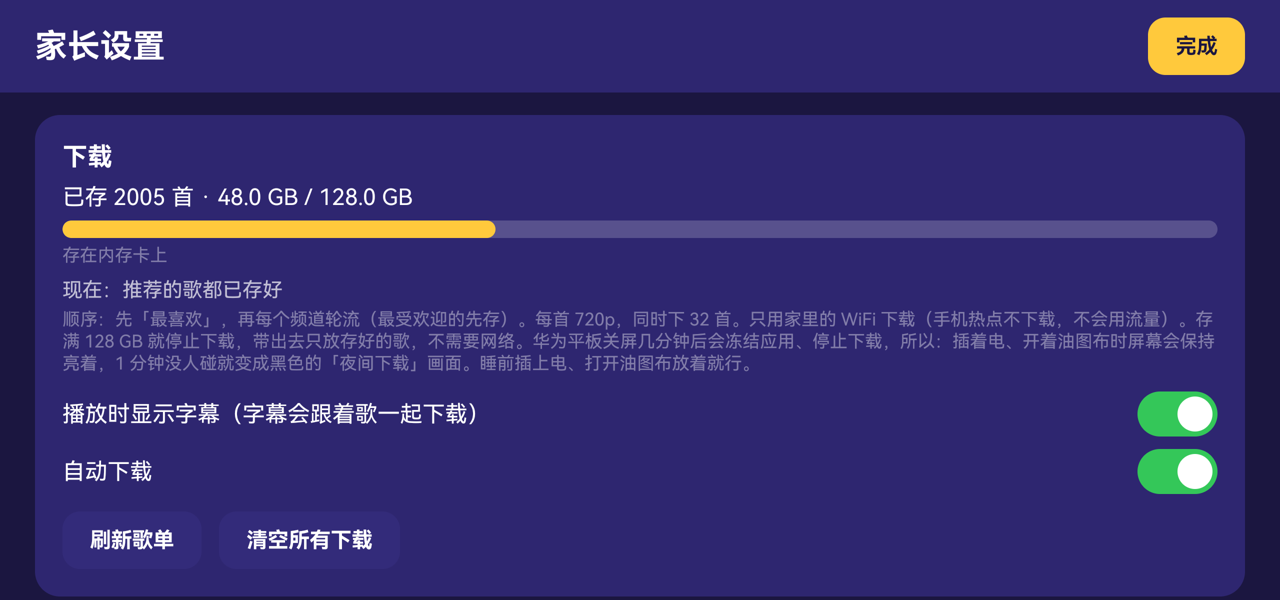
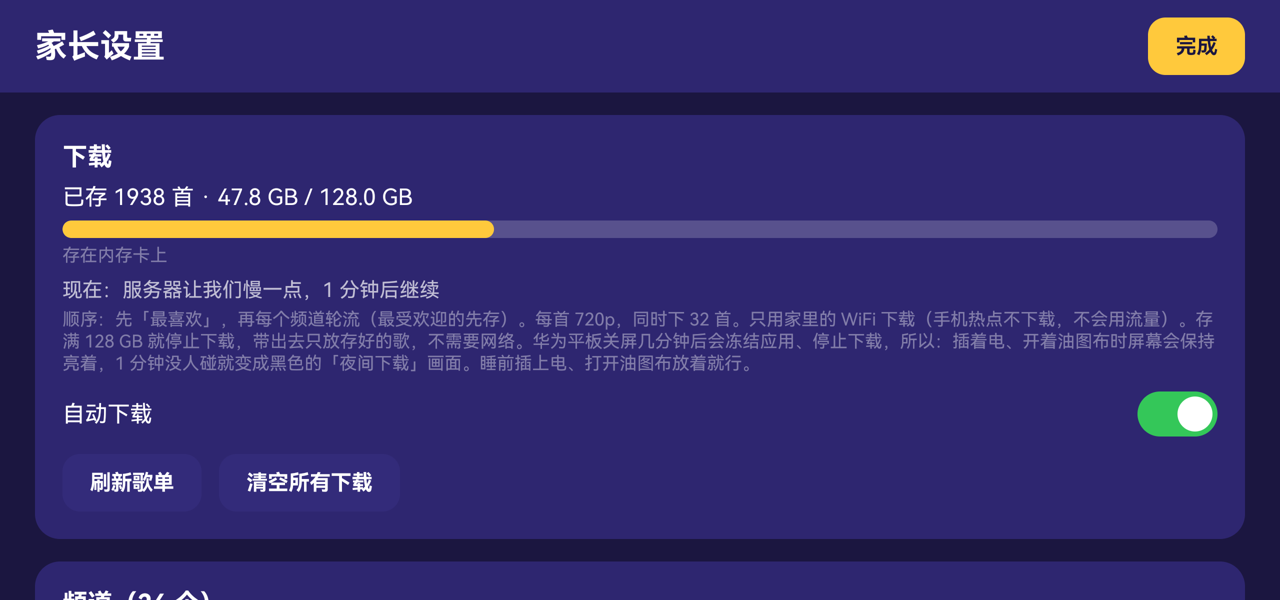
v2.5: 去掉字幕功能

diff --git a/app/src/main/java/app/youtubu/tv/Offline.kt b/app/src/main/java/app/youtubu/tv/Offline.kt
@@ -107,34 +107,15 @@ object Offline {
             gone.forEach { id ->
                 entries.remove(id)
                 File(dir(context), "$id.mpd").delete()
-                File(dir(context), "$id.vtt").delete()
-                File(dir(context), "$id.nosub").delete()
             }
             save(context)
         }
         return entries.values.map { it.video }.reversed()
     }
 
-    /** The song's stored subtitles, if it has any. */
-    fun subtitleFile(context: Context, videoId: String): File? =
-        File(dir(context), "$videoId.vtt").takeIf { it.exists() }
-
-    /** Whether subtitles were already looked for (found or not), so each song is asked about once. */
-    fun subtitleTried(context: Context, videoId: String): Boolean =
-        File(dir(context), "$videoId.vtt").exists() || File(dir(context), "$videoId.nosub").exists()
-
-    /** Forgets every "no subtitles" mark, so those songs are looked up again (after the rules changed). */
-    fun retrySubtitles(context: Context) {
-        dir(context).listFiles { f -> f.name.endsWith(".nosub") }?.forEach { it.delete() }
-        // empty subtitle files (header only, no lines) are removed too, so those songs are asked about again
-        dir(context).listFiles { f -> f.name.endsWith(".vtt") }?.forEach { f ->
-            if (!f.readText().contains("-->")) f.delete()
-        }
-    }
-
-    fun saveSubtitle(context: Context, videoId: String, vtt: String?) {
-        if (vtt != null) File(dir(context), "$videoId.vtt").writeText(vtt)
-        else File(dir(context), "$videoId.nosub").writeText("")
+    /** Subtitles were given up (YouTube restricts them too much): leftover files of older versions are removed. */
+    fun removeSubtitleFiles(context: Context) {
+        dir(context).listFiles { f -> f.name.endsWith(".vtt") || f.name.endsWith(".nosub") }?.forEach { it.delete() }
     }
 
     @Synchronized
@@ -228,32 +209,7 @@ class Precacher(private val context: Context, private val state: AppState, priva
                     delay(60_000)
                 }
             }
-            // tablet: subtitles for songs stored before (or whose subtitles could not be fetched then)
-            if (BuildConfig.PAD) launch {
-                // v2.2: subtitles also in Chinese / English when the channel's language has none
-                // v2.4: also drop empty subtitle files and ask again
-                if (state.store.subtitleRules < 3) {
-                    Offline.retrySubtitles(context)
-                    state.store.subtitleRules = 3
-                }
-                delay(20_000)
-                while (isActive) {
-                    val todo = if (holdUntil > System.currentTimeMillis() || !Net.unmetered(context) || !state.store.autoPrecache) null
-                    else Offline.videos(context).firstOrNull { !Offline.subtitleTried(context, it.id) }
-                    if (todo == null) {
-                        delay(60_000)
-                        continue
-                    }
-                    try {
-                        fetchSubtitle(todo)
-                    } catch (e: Exception) {
-                        if (e is kotlinx.coroutines.CancellationException) throw e
-                        if (serverBusy(e)) holdFor(e)
-                        else Offline.saveSubtitle(context, todo.id, null)
-                        delay(10_000)
-                    }
-                }
-            }
+            if (BuildConfig.PAD) Offline.removeSubtitleFiles(context)
             repeat(workers) { w ->
                 launch {
                     delay(w * if (BuildConfig.PAD) 300L else 1_500L)
@@ -438,14 +394,6 @@ class Precacher(private val context: Context, private val state: AppState, priva
             videoRep.setTag + "\n" + videoRep.xml + "\n</AdaptationSet>\n" +
             audioRep.setTag + "\n" + audioRep.xml + "\n</AdaptationSet>\n</Period>\n</MPD>\n"
         Offline.add(context, video, manifest, keys)
-        if (BuildConfig.PAD) {
-            try {
-                fetchSubtitle(video)
-            } catch (e: Exception) {
-                if (e is kotlinx.coroutines.CancellationException) throw e
-                if (serverBusy(e)) holdFor(e) // the song is stored; its subtitles come later
-            }
-        }
         // the cover picture too, so the offline page looks right without internet
         SingletonImageLoader.get(context).enqueue(ImageRequest.Builder(context).data(video.thumbnail).build())
         Media.log("离线存好「${video.title.take(24)}」${videoRep.height}p，${formatSize(keys.sumOf { it.second })}")
@@ -471,14 +419,6 @@ class Precacher(private val context: Context, private val state: AppState, priva
     }
 
     private suspend fun manifestText(videoId: String): String = gated { Media.fetchManifestText(state.api, videoId) }
-
-    /** Fetches and stores the song's subtitles (in its channel's language), once per song. */
-    private suspend fun fetchSubtitle(video: Video) {
-        if (Offline.subtitleTried(context, video.id)) return
-        val lang = state.channels.firstOrNull { it.id == video.authorId }?.lang ?: guessLang(video.author)
-        val vtt = gated { state.api.subtitle(video.id, lang) }
-        Offline.saveSubtitle(context, video.id, vtt)
-    }
 
     /** Server overloaded or blocking us: every worker waits (1 minute, then longer each time). */
     private fun holdFor(e: Exception) {

diff --git a/app/src/pad/java/app/youtubu/tv/PadPlayer.kt b/app/src/pad/java/app/youtubu/tv/PadPlayer.kt
@@ -62,7 +62,6 @@ import androidx.media3.exoplayer.dash.DashMediaSource
 import androidx.media3.exoplayer.dash.DefaultDashChunkSource
 import androidx.media3.exoplayer.source.MergingMediaSource
 import androidx.media3.exoplayer.source.SingleSampleMediaSource
-import androidx.media3.ui.CaptionStyleCompat
 import androidx.media3.ui.AspectRatioFrameLayout
 import androidx.media3.ui.PlayerView
 import kotlinx.coroutines.delay
@@ -84,8 +83,6 @@ fun PadPlayer(state: AppState, screen: Screen.Player) {
     var overlayUntil by remember { mutableLongStateOf(System.currentTimeMillis() + OVERLAY_MS) }
     var now by remember { mutableLongStateOf(System.currentTimeMillis()) }
     var skips by remember { mutableIntStateOf(0) }
-    var subtitles by remember { mutableStateOf(state.store.subtitles) }
-    var hasSubtitle by remember { mutableStateOf(false) }
 
     val player = remember {
         // everything is on the tablet: a bigger buffer (20–60 s) smooths over a busy memory card
@@ -121,22 +118,8 @@ fun PadPlayer(state: AppState, screen: Screen.Player) {
             return@LaunchedEffect
         }
         skips = 0
-        // stored subtitles play along (shown or hidden with the 字 button); the media source factory parses
-        // the WebVTT file while loading (the old SingleSampleMediaSource way fails on Media3 1.11:
-        // "Legacy decoding is disabled, can't handle text/vtt samples")
-        val sub = Offline.subtitleFile(context, video.id)
-        hasSubtitle = sub != null
-        val item = MediaItem.Builder().setUri(manifest).setMimeType(MimeTypes.APPLICATION_MPD).apply {
-            if (sub != null) setSubtitleConfigurations(
-                listOf(
-                    MediaItem.SubtitleConfiguration.Builder(Uri.fromFile(sub))
-                        .setMimeType(MimeTypes.TEXT_VTT)
-                        .setSelectionFlags(MediaC.SELECTION_FLAG_DEFAULT)
-                        .build(),
-                ),
-            )
-        }.build()
-        // local files (manifest, subtitles) directly, video data only from the stored cache
+        val item = MediaItem.Builder().setUri(manifest).setMimeType(MimeTypes.APPLICATION_MPD).build()
+        // the local manifest directly, video data only from the stored cache
         val source = DefaultMediaSourceFactory(DefaultDataSource.Factory(context, Media.offlineSource(context)))
             .createMediaSource(item)
         player.setMediaSource(source)
@@ -172,12 +155,6 @@ fun PadPlayer(state: AppState, screen: Screen.Player) {
         }
     }
 
-    LaunchedEffect(subtitles) {
-        player.trackSelectionParameters = player.trackSelectionParameters.buildUpon()
-            .setTrackTypeDisabled(MediaC.TRACK_TYPE_TEXT, !subtitles)
-            .build()
-    }
-
     LaunchedEffect(Unit) {
         while (true) {
             now = System.currentTimeMillis()
@@ -204,18 +181,6 @@ fun PadPlayer(state: AppState, screen: Screen.Player) {
                     useController = false
                     resizeMode = AspectRatioFrameLayout.RESIZE_MODE_FIT
                     keepScreenOn = true
-                    // big, easy to read subtitles on a dark band
-                    subtitleView?.apply {
-                        setApplyEmbeddedStyles(false)
-                        setApplyEmbeddedFontSizes(false)
-                        setFractionalTextSize(0.065f)
-                        setStyle(
-                            CaptionStyleCompat(
-                                android.graphics.Color.WHITE, 0xAA000000.toInt(), android.graphics.Color.TRANSPARENT,
-                                CaptionStyleCompat.EDGE_TYPE_NONE, android.graphics.Color.WHITE, null,
-                            ),
-                        )
-                    }
                     layoutParams = ViewGroup.LayoutParams(ViewGroup.LayoutParams.MATCH_PARENT, ViewGroup.LayoutParams.MATCH_PARENT)
                     this.player = player
                 }
@@ -238,16 +203,6 @@ fun PadPlayer(state: AppState, screen: Screen.Player) {
                     Spacer(Modifier.width(20.dp))
                     T(video.title, Modifier.weight(1f), size = 22.sp, weight = FontWeight.Bold, maxLines = 2)
                     Spacer(Modifier.width(20.dp))
-                    // subtitles on / off (remembered)
-                    RoundButton(80.dp, if (subtitles) C.yellow else Color(0x55FFFFFF), {
-                        subtitles = !subtitles
-                        state.store.subtitles = subtitles
-                        state.showToast(
-                            if (!subtitles) "字幕已关闭" else if (hasSubtitle) "字幕已打开" else "字幕已打开（这首歌没有字幕）",
-                        )
-                        showOverlay()
-                    }) { T("字", size = 34.sp, color = if (subtitles) C.bg else Color.White, weight = FontWeight.Black) }
-                    Spacer(Modifier.width(16.dp))
                     val fav = state.isFavorite(video)
                     RoundButton(80.dp, if (fav) C.pink else Color(0x55FFFFFF), {
                         state.toggleFavorite(video)

diff --git a/app/src/main/java/app/youtubu/tv/Data.kt b/app/src/main/java/app/youtubu/tv/Data.kt
@@ -150,39 +150,6 @@ class Invidious(private val base: () -> String) {
             .map { it.toVideo() }
     }
 
-    /**
-     * Subtitles (WebVTT) of a video in the channel's language: hand-made ones first, auto-generated otherwise.
-     * Null when the video has none in that language.
-     */
-    suspend fun subtitle(videoId: String, lang: String): String? {
-        val json = JSONObject(get("/api/v1/captions/$videoId"))
-        val arr = json.optJSONArray("captions") ?: return null
-        // the channel's own language first, else Chinese, else English
-        val zh = listOf("zh-hans", "zh-cn", "zh", "zh-hant", "zh-tw", "zh-hk")
-        val groups = when (lang) {
-            "zh" -> listOf(zh, listOf("en"))
-            "de" -> listOf(listOf("de"), zh, listOf("en"))
-            else -> listOf(listOf("en"), zh)
-        }
-        val wanted = groups.flatten()
-        fun score(o: JSONObject): Int {
-            val code = o.optString("languageCode", o.optString("language_code")).lowercase()
-            val i = wanted.indexOfFirst { code == it || code.startsWith("$it-") }
-            if (i < 0) return -1
-            val group = groups.indexOfFirst { g -> g.any { code == it || code.startsWith("$it-") } }
-            val label = o.optString("label")
-            val auto = label.contains("auto", ignoreCase = true) || label.contains("自动")
-            // a better language always wins; within a language hand-made before auto-generated
-            return (groups.size - group) * 1000 + (if (auto) 0 else 100) + (wanted.size - i)
-        }
-        val best = (0 until arr.length()).map { arr.getJSONObject(it) }
-            .filter { score(it) >= 0 }.maxByOrNull { score(it) } ?: return null
-        val url = best.optString("url").ifEmpty { return null }
-        val text = get(if (url.startsWith("/")) url else "/" + url.substringAfter("://").substringAfter("/"))
-        // YouTube now often hands out a subtitle file with only the header and no lines: that counts as none
-        return text.takeIf { it.trimStart().startsWith("WEBVTT") && it.contains("-->") }
-    }
-
     suspend fun channelInfo(channelId: String): Channel {
         val json = JSONObject(get("/api/v1/channels/$channelId"))
         return Channel(json.getString("authorId"), json.getString("author"), avatarFrom(json))
@@ -275,14 +242,6 @@ class Store(context: Context) {
     var padLang: String
         get() = prefs.getString("padLang", null) ?: "zh"
         set(value) = prefs.edit().putString("padLang", value).apply()
-
-    var subtitleRules: Int
-        get() = prefs.getInt("subtitleRules", 1)
-        set(value) = prefs.edit().putInt("subtitleRules", value).apply()
-
-    var subtitles: Boolean
-        get() = prefs.getBoolean("subtitles", true)
-        set(value) = prefs.edit().putBoolean("subtitles", value).apply()
 
     var autoPrecache: Boolean
         get() = prefs.getBoolean("autoPrecache", true)

diff --git a/app/src/pad/java/app/youtubu/tv/PadParent.kt b/app/src/pad/java/app/youtubu/tv/PadParent.kt
@@ -113,15 +113,6 @@ fun PadParent(state: AppState) {
                         size = 14.sp, color = C.faint,
                     )
                     Spacer(Modifier.height(14.dp))
-                    var subs by remember { mutableStateOf(state.store.subtitles) }
-                    Row(verticalAlignment = Alignment.CenterVertically) {
-                        T("播放时显示字幕（字幕会跟着歌一起下载）", Modifier.weight(1f), size = 18.sp)
-                        Switch(subs) {
-                            subs = it
-                            state.store.subtitles = it
-                        }
-                    }
-                    Spacer(Modifier.height(10.dp))
                     Row(verticalAlignment = Alignment.CenterVertically) {
                         T("自动下载", Modifier.weight(1f), size = 18.sp)
                         Switch(auto) {
@@ -233,7 +224,7 @@ fun PadParent(state: AppState) {
                     T("视频服务器", size = 20.sp, weight = FontWeight.Bold)
                     Spacer(Modifier.height(4.dp))
                     T(
-                        "歌单、播放清单和字幕都从这些 Invidious 服务器取。「家里电脑」是这台平板专用的私有服务器（平板连着电脑热点时可用，不会被别人封）。" +
+                        "歌单和播放清单都从这些 Invidious 服务器取。「家里电脑」是这台平板专用的私有服务器（平板连着电脑热点时可用，不会被别人封）。" +
                             "正在用的服务器连不上或封了我们时，会自动换到下一个；添加前会先测试能不能用。",
                         size = 14.sp, color = C.faint,
                     )

diff --git a/docs/release-notes/v2.5.md b/docs/release-notes/v2.5.md
@@ -1,0 +1,7 @@
+去掉字幕功能。
+
+YouTube 现在取字幕也要求校验令牌，私有服务器取回的字幕几乎都是空文件（v2.4 检查时 342 个里有 338 个没有内容），最近更是直接被拒绝。在找到可靠的字幕来源之前，先把这个功能拿掉，免得它不停地向服务器发请求，还给出一个用不了的开关。
+
+- 不再下载字幕，也不再在后台补字幕；播放页去掉「字」按钮，家长设置去掉字幕开关
+- 升级后，平板上旧版本留下的字幕文件会自动删除
+- 播放改回只加载视频（`DefaultMediaSourceFactory` + 只读缓存），v2.4 的流畅度改进全部保留
